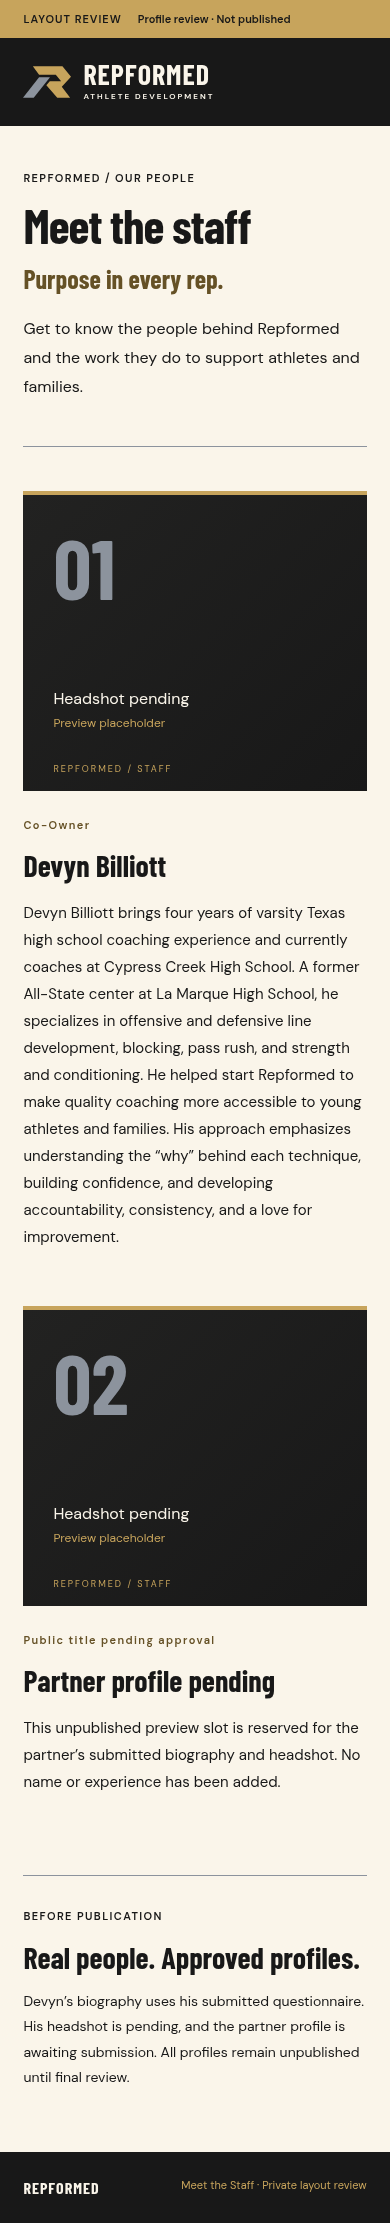
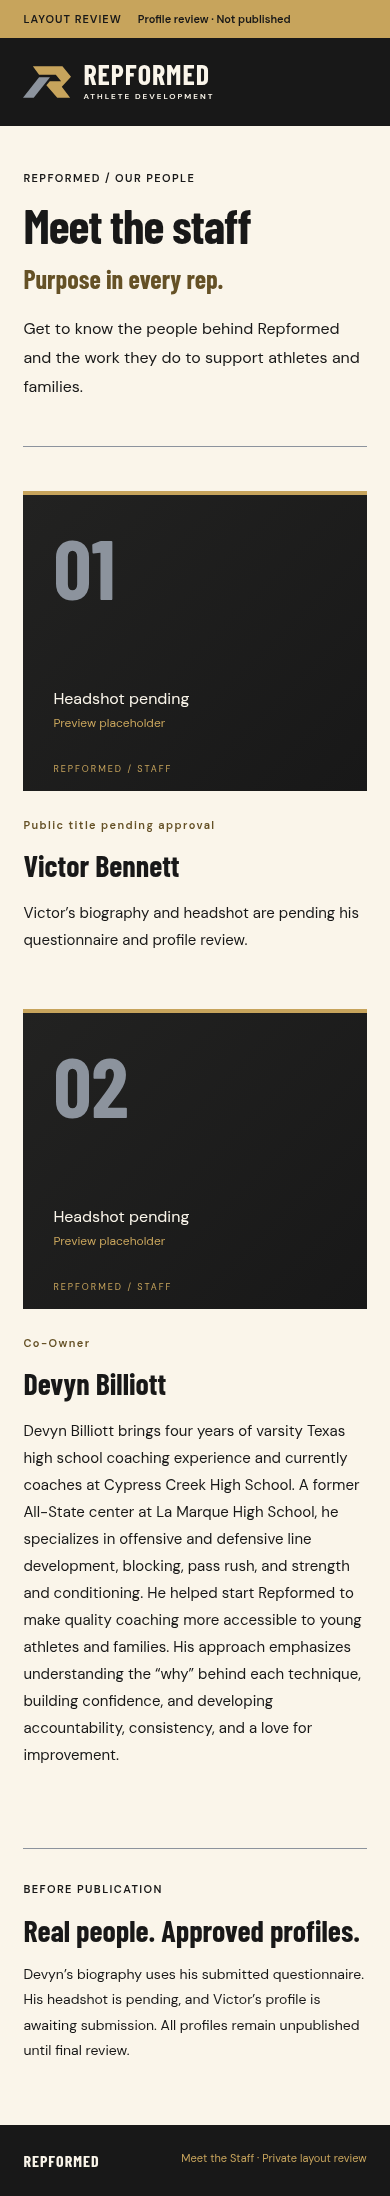
Place Victor Bennett before Devyn in staff preview

diff --git a/preview/meet-the-staff/profiles.ts b/preview/meet-the-staff/profiles.ts
@@ -11,17 +11,17 @@ export type PublicStaffProfile = {
 // not independently verified. This entire entry point remains unpublished.
 export const previewProfiles: PublicStaffProfile[] = [
   {
+    id: "victor-bennett",
+    name: "Victor Bennett",
+    title: "Public title pending approval",
+    bio: "Victor’s biography and headshot are pending his questionnaire and profile review.",
+    experience: [],
+  },
+  {
     id: "devyn-billiott",
     name: "Devyn Billiott",
     title: "Co-Owner",
     bio: "Devyn Billiott brings four years of varsity Texas high school coaching experience and currently coaches at Cypress Creek High School. A former All-State center at La Marque High School, he specializes in offensive and defensive line development, blocking, pass rush, and strength and conditioning. He helped start Repformed to make quality coaching more accessible to young athletes and families. His approach emphasizes understanding the “why” behind each technique, building confidence, and developing accountability, consistency, and a love for improvement.",
-    experience: [],
-  },
-  {
-    id: "partner-pending",
-    name: "Partner profile pending",
-    title: "Public title pending approval",
-    bio: "This unpublished preview slot is reserved for the partner’s submitted biography and headshot. No name or experience has been added.",
     experience: [],
   },
 ];

diff --git a/preview-tests/meet-the-staff.spec.ts b/preview-tests/meet-the-staff.spec.ts
@@ -11,6 +11,12 @@ for (const width of [320, 390, 768, 1440]) {
       "Meet the staff",
     );
     await expect(page.getByRole("article")).toHaveCount(2);
+    await expect(page.getByRole("article").nth(0)).toHaveAccessibleName(
+      "Victor Bennett",
+    );
+    await expect(page.getByRole("article").nth(1)).toHaveAccessibleName(
+      "Devyn Billiott",
+    );
     await expect(page.getByText("Headshot pending")).toHaveCount(2);
     const devyn = page.getByRole("article", { name: "Devyn Billiott" });
     await expect(devyn.getByText("Co-Owner", { exact: true })).toBeVisible();

diff --git a/preview/meet-the-staff/MeetTheStaff.tsx b/preview/meet-the-staff/MeetTheStaff.tsx
@@ -82,8 +82,8 @@ export function MeetTheStaff({ profiles }: { profiles: PublicStaffProfile[] }) {
           <h2 id="review-title">Real people. Approved profiles.</h2>
           <p>
             Devyn’s biography uses his submitted questionnaire. His headshot is
-            pending, and the partner profile is awaiting submission. All
-            profiles remain unpublished until final review.
+            pending, and Victor’s profile is awaiting submission. All profiles
+            remain unpublished until final review.
           </p>
         </section>
       </main>

diff --git a/docs/meet-the-staff/README.md b/docs/meet-the-staff/README.md
@@ -42,3 +42,7 @@ These contain preview placeholders only. They are review artifacts, not publishe
 ## Devyn profile revision
 
 Uses the exact biography supplied for review, as one paragraph. No repeated experience panel or private contact/account details. Awaiting the original headshot bytes before final visual completion; no substitute portrait is used. The partner has no invented name, title or credentials. Nothing is published.
+
+## Approved order
+
+Victor Bennett appears first and Devyn Billiott second in source/reading order at every viewport. Victor’s name and placement were supplied by the user; his title, biography and headshot remain pending. Devyn’s biography is approved. No profiles are published.
